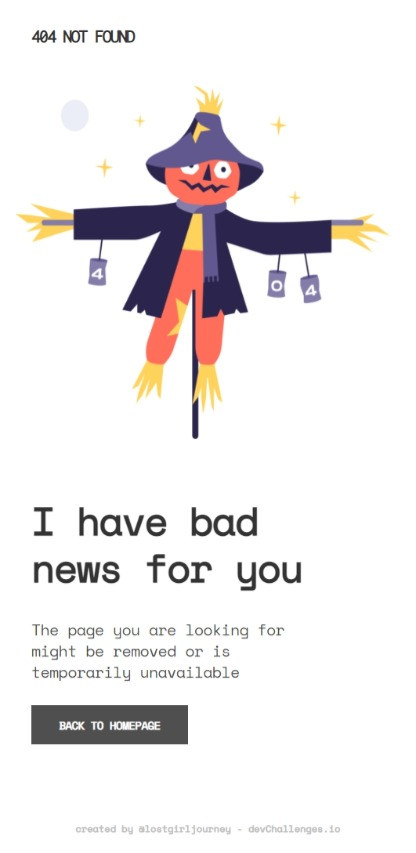
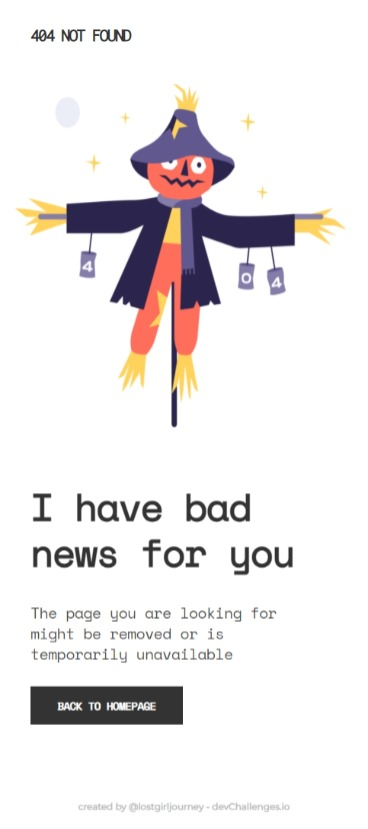
information and codes added

diff --git a/stylesheet.css b/stylesheet.css
@@ -95,7 +95,7 @@ span {
 }
 
 .footer {
-  font-family: "Space Mono", sans-serif;
+  font-family: Montserrat, sans-serif;
   font-weight: bold;
   font-size: 14px;
   line-height: 17px;

diff --git a/README.md b/README.md
@@ -51,7 +51,7 @@ Challenge was to create a 404 not found page following the design given in websi
 
 - HTML
 - CSS
-- Netlify 
+- Netlify
 
 [![Netlify Status](https://api.netlify.com/api/v1/badges/c5b010eb-f820-4908-b86e-77ba2669c953/deploy-status)](https://404-not-found-page-solution.netlify.app/)
 
